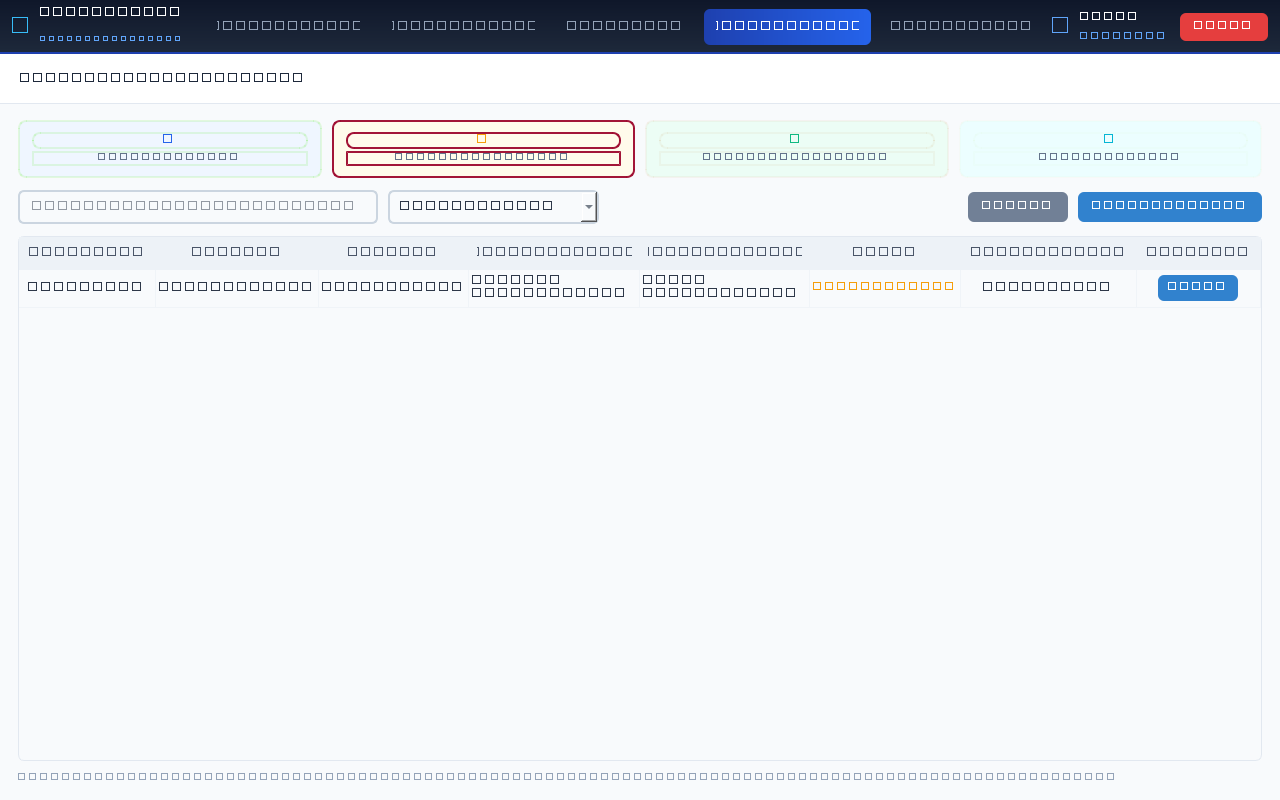
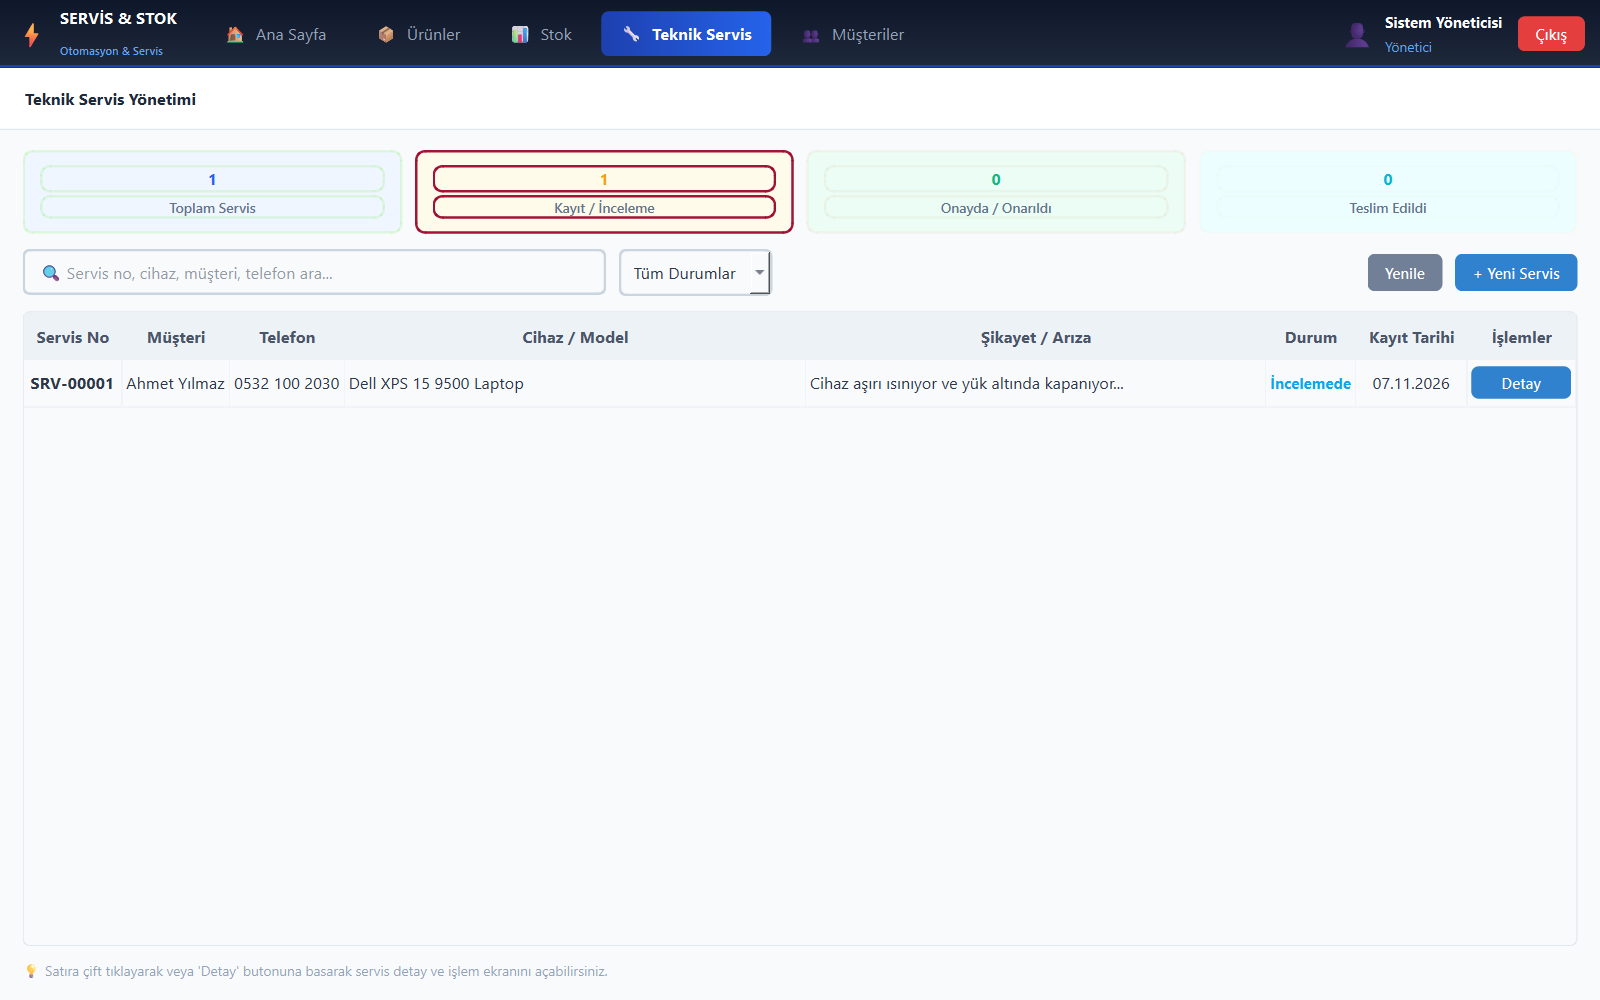
fix(docs): recapture screenshots with native font rendering and fix mnemonics

diff --git a/main_app/ui/service_page.py b/main_app/ui/service_page.py
@@ -460,7 +460,7 @@ class ServiceDetailDialog(QDialog):
         clayout.addLayout(info_row)
 
         # B) Yapılan İşlem & Durum Yönetimi Kutusu
-        grp_work = QGroupBox("Yapılan İşlem & Durum Güncelleme")
+        grp_work = QGroupBox("Yapılan İşlem && Durum Güncelleme")
         grp_work.setFont(QFont("Segoe UI", 10, QFont.Weight.Bold))
         gwl = QVBoxLayout(grp_work)
         gwl.setSpacing(10)
